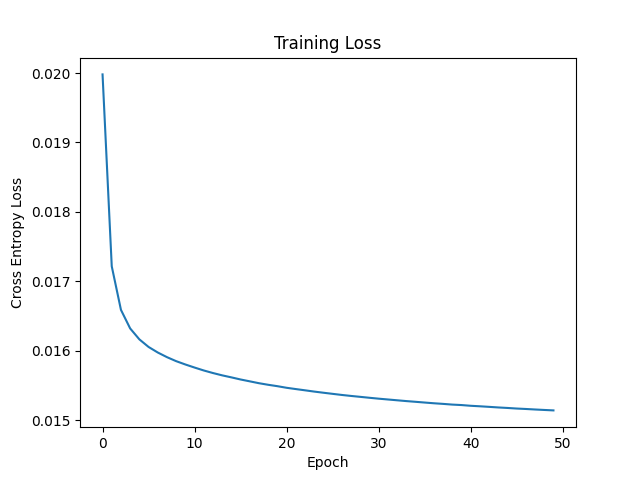
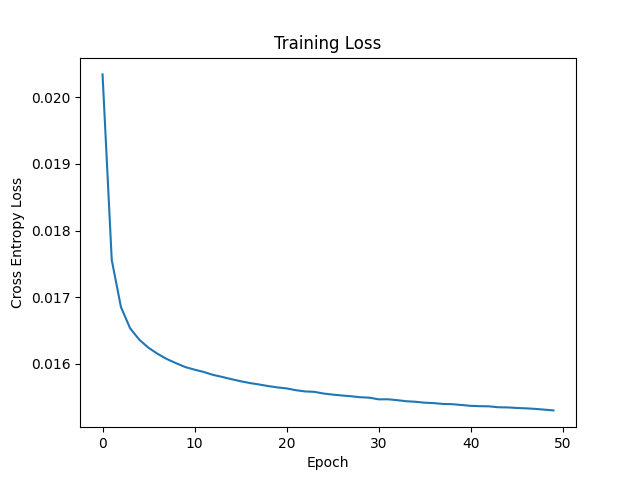
Added dropout rates

diff --git a/network.py b/network.py
@@ -7,22 +7,27 @@ import numpy as np
 
 
 class TwoLayerClassifier:
-    def __init__(self, input_dim=28*28, hidden_dim=64, output_dim=10, batch_size=100):
+    def __init__(self, input_dim=28*28, hidden_dim=64, output_dim=10, batch_size=100, dropout_rate = 0.25):
         # Attributes need to be aligned with the skeleton code provided in the train method
         self.layer1 = {}
         self.layer2 = {}
         
         # Initialize weights and biases for layer1 and layer2
-        self.layer1['W'] = torch.randn(input_dim, hidden_dim) * np.sqrt(3. / input_dim)
+        self.layer1['W'] = torch.randn(input_dim, hidden_dim) * np.sqrt(1. / input_dim)
         self.layer1['b'] = torch.zeros(hidden_dim)
         self.layer2['W'] = torch.randn(hidden_dim, output_dim) * np.sqrt(1. / hidden_dim)
         self.layer2['b'] = torch.zeros(output_dim)
         
         self.batch_size = batch_size
+        self.dropout_rate = dropout_rate
 
-    def forward(self, X):
+    def forward(self, X, is_training=True):
         self.z1 = torch.matmul(X, self.layer1['W']) + self.layer1['b']
         self.a1 = torch.sigmoid(self.z1)  
+        
+        if is_training:
+            self.a1 = F.dropout(self.a1,p=self.dropout_rate)
+        
         z2 = torch.matmul(self.a1, self.layer2['W']) + self.layer2['b']
         return F.softmax(z2, dim=1)
 
